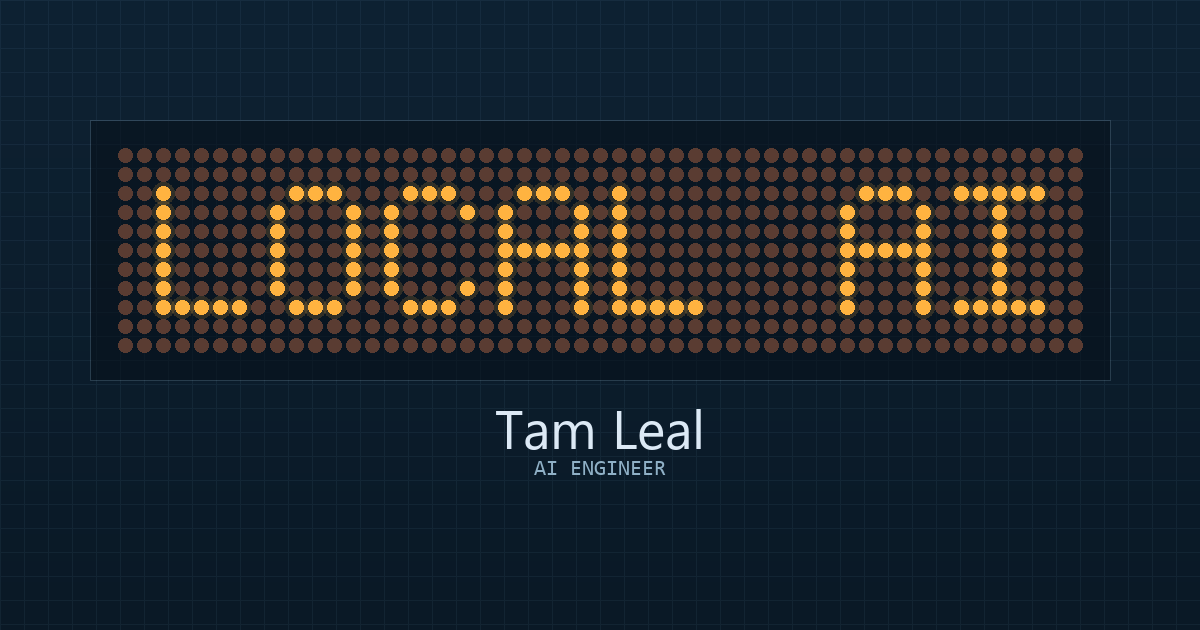
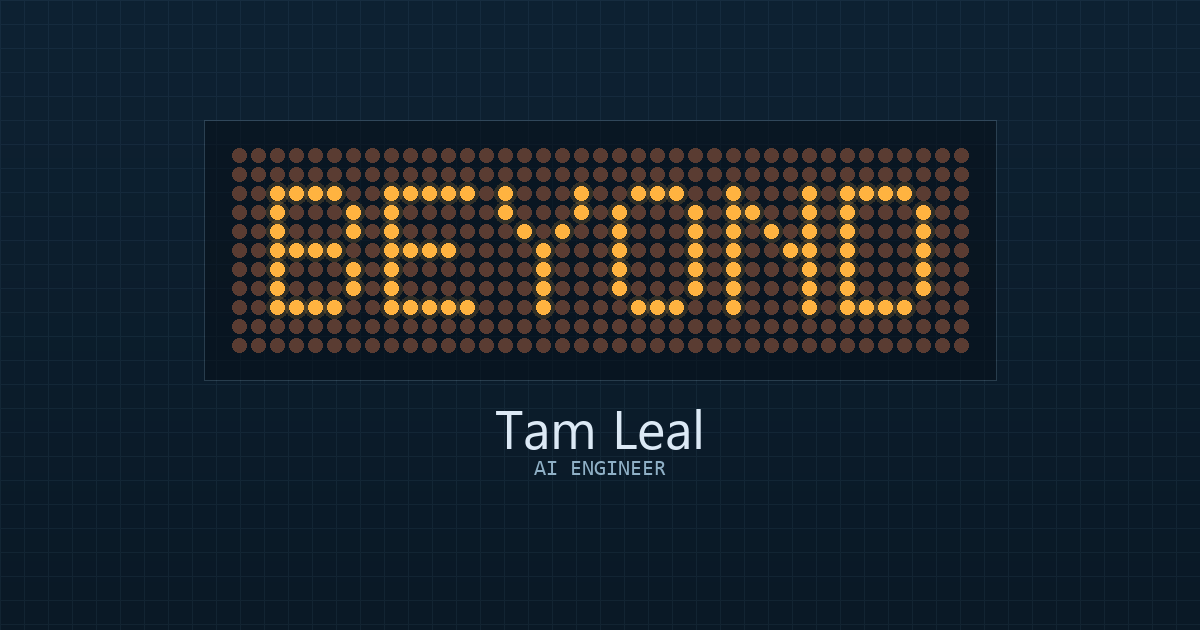
Replace LOCAL AI LED copy with BEYOND and update OG thumbnail

diff --git a/index.html b/index.html
@@ -415,7 +415,7 @@
     <div class="eyebrow">// tam leal · ai engineer · product engineer</div>
     <div class="matrix-frame">
       <span class="tag">16px matrix · radar sweep active</span>
-      <canvas id="ledCanvas" role="img" aria-label="Animated LED matrix displaying the words: hardware, local AI, software, firmware"></canvas>
+      <canvas id="ledCanvas" role="img" aria-label="Animated LED matrix displaying the words: hardware, beyond, shipped, craft"></canvas>
     </div>
     <h1>I build things that work <em>beyond the screen</em>: from firmware to apps, from radar to AI models.</h1>
     <p class="lede">
@@ -682,24 +682,30 @@
    - Mouse/touch lights LEDs by proximity
    ===================================================================== */
 (function(){
-  const WORDS = ['HARDWARE', 'LOCAL AI', 'SOFTWARE', 'FIRMWARE'];
+  const WORDS = ['HARDWARE', 'BEYOND', 'SHIPPED', 'CRAFT'];
 
   // pixel font, 5 cols x 7 rows (1 = lit)
   const FONT = {
     'A':[ '01110','10001','10001','11111','10001','10001','10001'],
+    'B':[ '11110','10001','10001','11110','10001','10001','11110'],
     'C':[ '01110','10001','10000','10000','10000','10001','01110'],
     'D':[ '11110','10001','10001','10001','10001','10001','11110'],
     'E':[ '11111','10000','10000','11110','10000','10000','11111'],
     'F':[ '11111','10000','10000','11110','10000','10000','10000'],
+    'G':[ '01110','10001','10000','10011','10001','10001','01110'],
     'H':[ '10001','10001','10001','11111','10001','10001','10001'],
     'I':[ '11111','00100','00100','00100','00100','00100','11111'],
     'L':[ '10000','10000','10000','10000','10000','10000','11111'],
     'M':[ '10001','11011','10101','10101','10001','10001','10001'],
+    'N':[ '10001','11001','10101','10011','10001','10001','10001'],
     'O':[ '01110','10001','10001','10001','10001','10001','01110'],
+    'P':[ '11110','10001','10001','11110','10000','10000','10000'],
     'R':[ '11110','10001','10001','11110','10100','10010','10001'],
     'S':[ '01111','10000','10000','01110','00001','00001','11110'],
     'T':[ '11111','00100','00100','00100','00100','00100','00100'],
+    'U':[ '10001','10001','10001','10001','10001','10001','01110'],
     'W':[ '10001','10001','10001','10101','10101','11011','10001'],
+    'Y':[ '10001','10001','01010','00100','00100','00100','00100'],
     ' ':[ '00000','00000','00000','00000','00000','00000','00000']
   };
 

diff --git a/scripts/generate_og_image.py b/scripts/generate_og_image.py
@@ -18,32 +18,42 @@ HAIRLINE = (143, 176, 198, 56)
 
 FONT = {
     "A": ["01110", "10001", "10001", "11111", "10001", "10001", "10001"],
+    "B": ["11110", "10001", "10001", "11110", "10001", "10001", "11110"],
     "C": ["01110", "10001", "10000", "10000", "10000", "10001", "01110"],
     "D": ["11110", "10001", "10001", "10001", "10001", "10001", "11110"],
     "E": ["11111", "10000", "10000", "11110", "10000", "10000", "11111"],
     "F": ["11111", "10000", "10000", "11110", "10000", "10000", "10000"],
+    "G": ["01110", "10001", "10000", "10011", "10001", "10001", "01110"],
     "H": ["10001", "10001", "10001", "11111", "10001", "10001", "10001"],
     "I": ["11111", "00100", "00100", "00100", "00100", "00100", "11111"],
     "L": ["10000", "10000", "10000", "10000", "10000", "10000", "11111"],
     "M": ["10001", "11011", "10101", "10101", "10001", "10001", "10001"],
+    "N": ["10001", "11001", "10101", "10011", "10001", "10001", "10001"],
     "O": ["01110", "10001", "10001", "10001", "10001", "10001", "01110"],
+    "P": ["11110", "10001", "10001", "11110", "10000", "10000", "10000"],
     "R": ["11110", "10001", "10001", "11110", "10100", "10010", "10001"],
     "S": ["01111", "10000", "10000", "01110", "00001", "00001", "11110"],
     "T": ["11111", "00100", "00100", "00100", "00100", "00100", "00100"],
+    "U": ["10001", "10001", "10001", "10001", "10001", "10001", "01110"],
     "W": ["10001", "10001", "10001", "10101", "10101", "11011", "10001"],
+    "Y": ["10001", "10001", "01010", "00100", "00100", "00100", "00100"],
     " ": ["00000", "00000", "00000", "00000", "00000", "00000", "00000"],
 }
 
-WORD = "LOCAL AI"
+WORD = "BEYOND"
 CHAR_W = 6
 ROWS = 11
-COLS = len(WORD) * CHAR_W + 3
+
+
+def cols_for(word: str) -> int:
+    return len(word) * CHAR_W + 3
 
 
 def build_target(word: str) -> list[list[int]]:
-    grid = [[0 for _ in range(COLS)] for _ in range(ROWS)]
+    cols = cols_for(word)
+    grid = [[0 for _ in range(cols)] for _ in range(ROWS)]
     word_cols = len(word) * CHAR_W - 1
-    start_c = (COLS - word_cols) // 2
+    start_c = (cols - word_cols) // 2
     start_r = 2
     for i, ch in enumerate(word):
         glyph = FONT.get(ch, FONT[" "])
@@ -75,9 +85,10 @@ def draw_background(draw: ImageDraw.ImageDraw) -> None:
 
 def draw_matrix(img: Image.Image, draw: ImageDraw.ImageDraw, cx: int, cy: int) -> None:
     target = build_target(WORD)
+    cols = cols_for(WORD)
     dot = 14
     gap = 5
-    matrix_w = COLS * dot + (COLS - 1) * gap
+    matrix_w = cols * dot + (cols - 1) * gap
     matrix_h = ROWS * dot + (ROWS - 1) * gap
     pad = 28
     frame_x0 = cx - matrix_w // 2 - pad
@@ -99,7 +110,7 @@ def draw_matrix(img: Image.Image, draw: ImageDraw.ImageDraw, cx: int, cy: int) -
     y0 = cy - matrix_h // 2
 
     for r in range(ROWS):
-        for c in range(COLS):
+        for c in range(cols):
             lit = target[r][c]
             px = x0 + c * (dot + gap)
             py = y0 + r * (dot + gap)